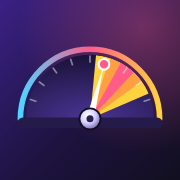
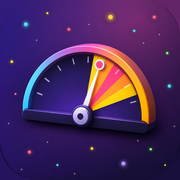
Nuova icona 3D con pallini colorati nello sfondo
Claude-Session: https://claude.ai/code/session_01VmeX2C5mSBRFQzHanfu88V

diff --git a/index.html b/index.html
@@ -6,9 +6,9 @@
 <meta name="viewport" content="width=device-width,initial-scale=1,maximum-scale=1,viewport-fit=cover">
 <title>Sintonia</title>
 <meta name="theme-color" content="#120f1f">
-<link rel="icon" type="image/svg+xml" href="icons/favicon.svg">
-<link rel="icon" type="image/png" sizes="32x32" href="icons/favicon-32.png">
-<link rel="apple-touch-icon" href="icons/apple-touch-icon.png">
+<link rel="icon" type="image/png" sizes="64x64" href="icons/favicon-64.png?v=1793615025">
+<link rel="icon" type="image/png" sizes="32x32" href="icons/favicon-32.png?v=1793615025">
+<link rel="apple-touch-icon" href="icons/apple-touch-icon.png?v=1793615025">
 <link rel="manifest" href="manifest.webmanifest">
 <meta name="apple-mobile-web-app-title" content="Sintonia">
 <meta name="apple-mobile-web-app-capable" content="yes">
@@ -17,7 +17,7 @@
 <meta name="description" content="Leggi nella mente dei tuoi amici: il gioco da fare in compagnia, ognuno dal proprio telefono.">
 <meta property="og:title" content="Sintonia">
 <meta property="og:description" content="Leggi nella mente dei tuoi amici">
-<meta property="og:image" content="https://yeezikdev.github.io/sintonia/icons/icon-512.png">
+<meta property="og:image" content="https://yeezikdev.github.io/sintonia/icons/icon-512.png?v=1793615025">
 
 <link rel="preconnect" href="https://fonts.googleapis.com">
 <link href="https://fonts.googleapis.com/css2?family=Rubik:wght@400;600;800;900&display=swap" rel="stylesheet">
